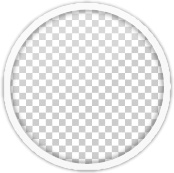
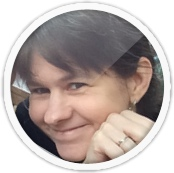
helen

diff --git a/speakers.html b/speakers.html
@@ -50,7 +50,7 @@
       </div>
 
       <div class="large-2 columns">
-          <img src="/images/2013/speakers/rob_rix.jpg" width="100%" />
+          <a href="#" data-reveal-id="rob-rix"><img src="/images/2013/speakers/rob_rix.jpg" width="100%" /></a>
           <h3><a href="#" data-reveal-id="rob-rix">Rob Rix</a></h3>
       </div>
 
@@ -91,7 +91,11 @@
       <img src="/images/2013/speakers/emily_toop.jpg"  />
         <h3>Emily Toop</h3>
         <h4><a href="http://emilytoop.com">emilytoop.com</a></h4>
-        <p>TBA</p>
+        <p>Emily is a mobile app developer based in Brighton currently focusing on iPhone development, 
+        with 10 years experience developing robust commercial systems in Java, C# and C++.</p>
+        <p>In her spare time she dabbles as a robotics hobbyist, building small simple robots to 
+        entertain herself and her partner by scaring or playing with the cat.  As part of this hobby 
+        she set up the Hackspace in Brighton, BuildBrighton.</p>
           <a class="close-reveal-modal">&#215;</a>
       </div>
 
@@ -121,7 +125,10 @@
       <img src="/images/2013/speakers/rob_rix.jpg"  />
         <h3>Rob Rix</h3>
         <h4><a href="https://github.com/robrix">GitHub</a></h4>
-        <p>TBA</p>
+        <p>Rob writes <a href="https://github.com/robrix">code (compulsively)</a>
+         and <a href="http://antitypical.com/writing">prose (cathartically)</a> and <a href="http://intersections.tumblr.com/">terrible
+         ideas (naturally)</a> but above all, he is a machine for turning the last echoes of a 
+         long-dead sun into text.</p>
           <a class="close-reveal-modal">&#215;</a>
       </div>
 
